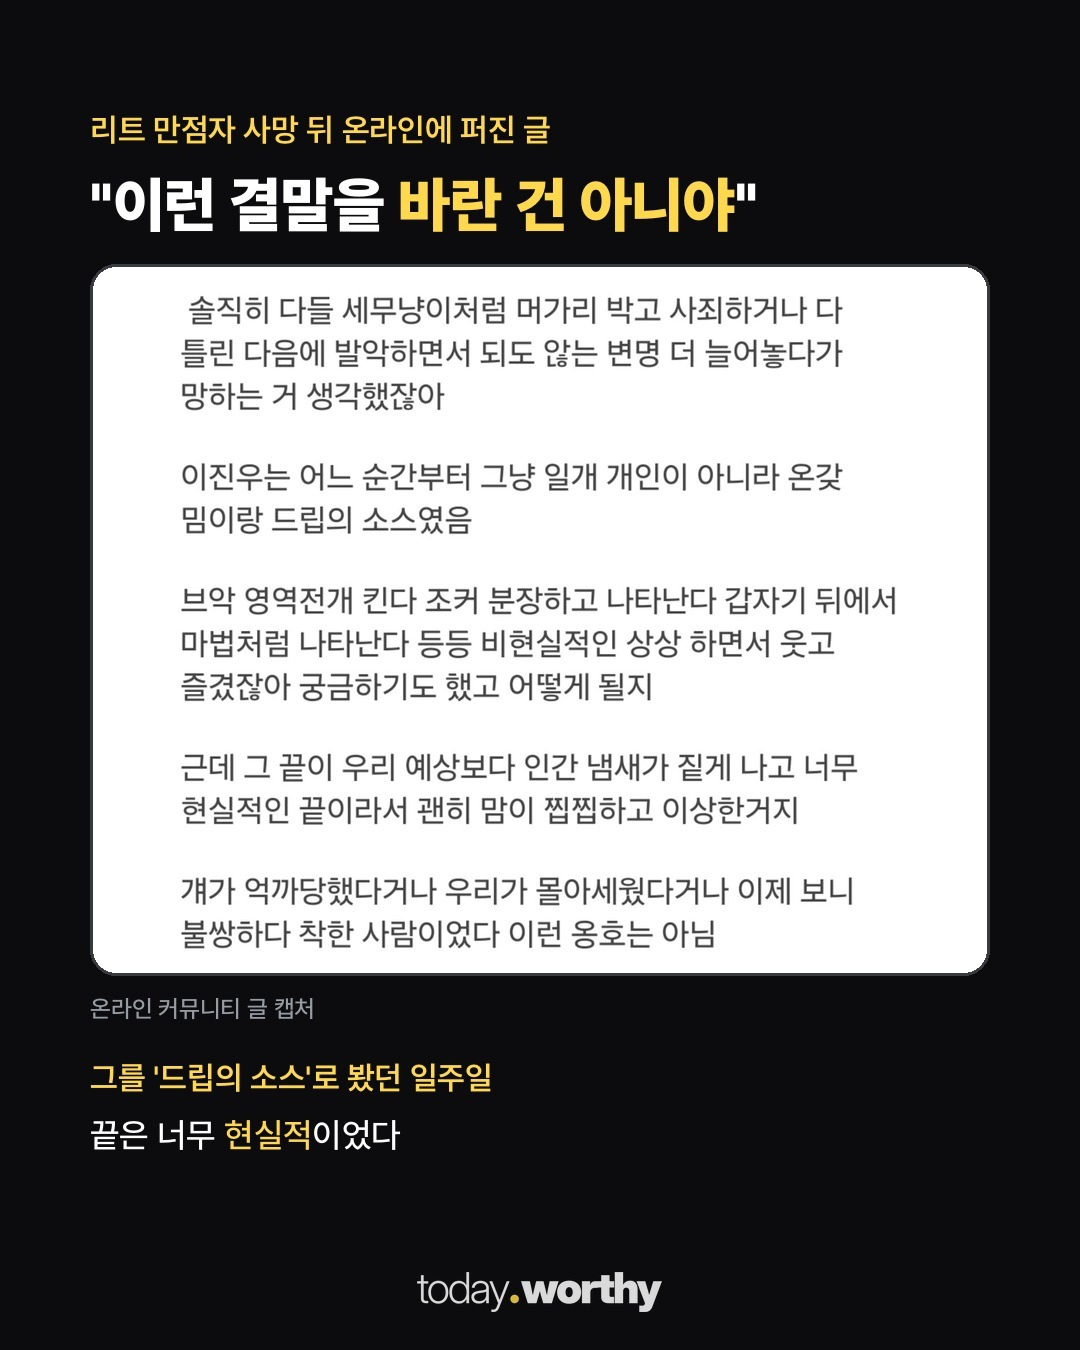
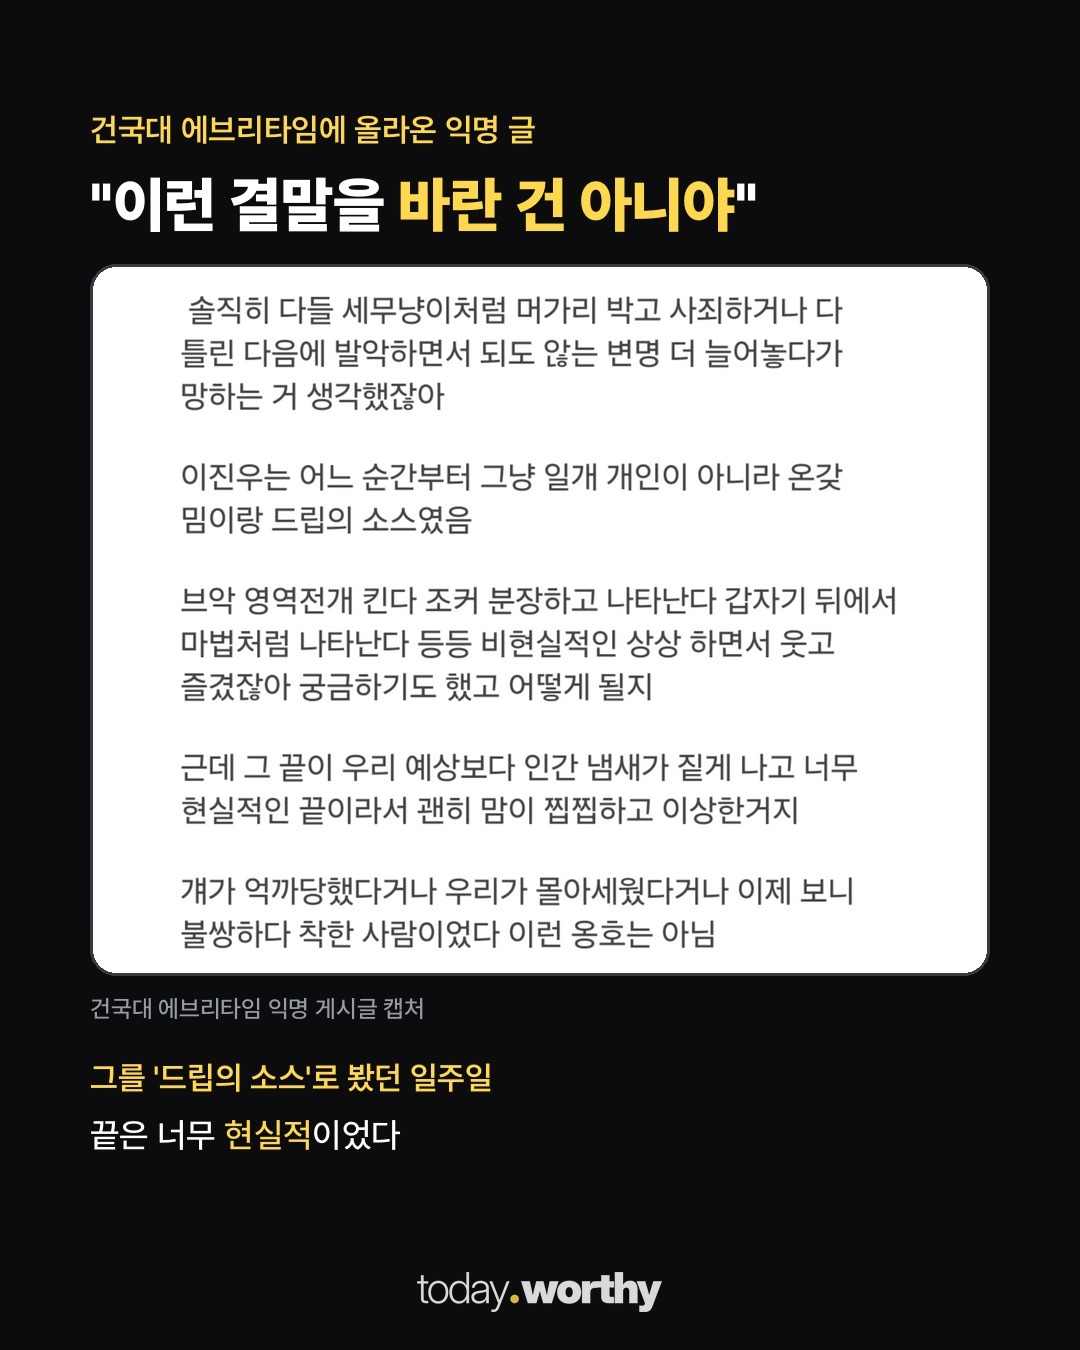
card: leetmeme 원출처 건국대 에브리타임

diff --git a/media/20261119-leetmeme/build_cards.py b/media/20261119-leetmeme/build_cards.py
@@ -51,9 +51,9 @@ def panel(rows, h=640, gap=None):
 
 
 # 2장: 실제 캡처 카드
-specs = [{"out": str(O / "c02.jpg"), "sub": "리트 만점자 사망 뒤 온라인에 퍼진 글", "title": "\"이런 결말을 '바란 건 아니야'\"",
+specs = [{"out": str(O / "c02.jpg"), "sub": "건국대 에브리타임에 올라온 익명 글", "title": "\"이런 결말을 '바란 건 아니야'\"",
           "cap": str(O / "cap_hist.jpg"), "cap_max_h": 700, "box_bg": [255, 255, 255],
-          "caption": "온라인 커뮤니티 글 캡처", "label": "그를 '드립의 소스'로 봤던 일주일",
+          "caption": "건국대 에브리타임 익명 게시글 캡처", "label": "그를 '드립의 소스'로 봤던 일주일",
           "lines": ["끝은 너무 '현실적'이었다"]}]
 sp = O / "specs.json"; sp.write_text(json.dumps(specs, ensure_ascii=False))
 subprocess.run([sys.executable, str(R / "scripts/post_cap_card.py"), str(sp)], check=True)
